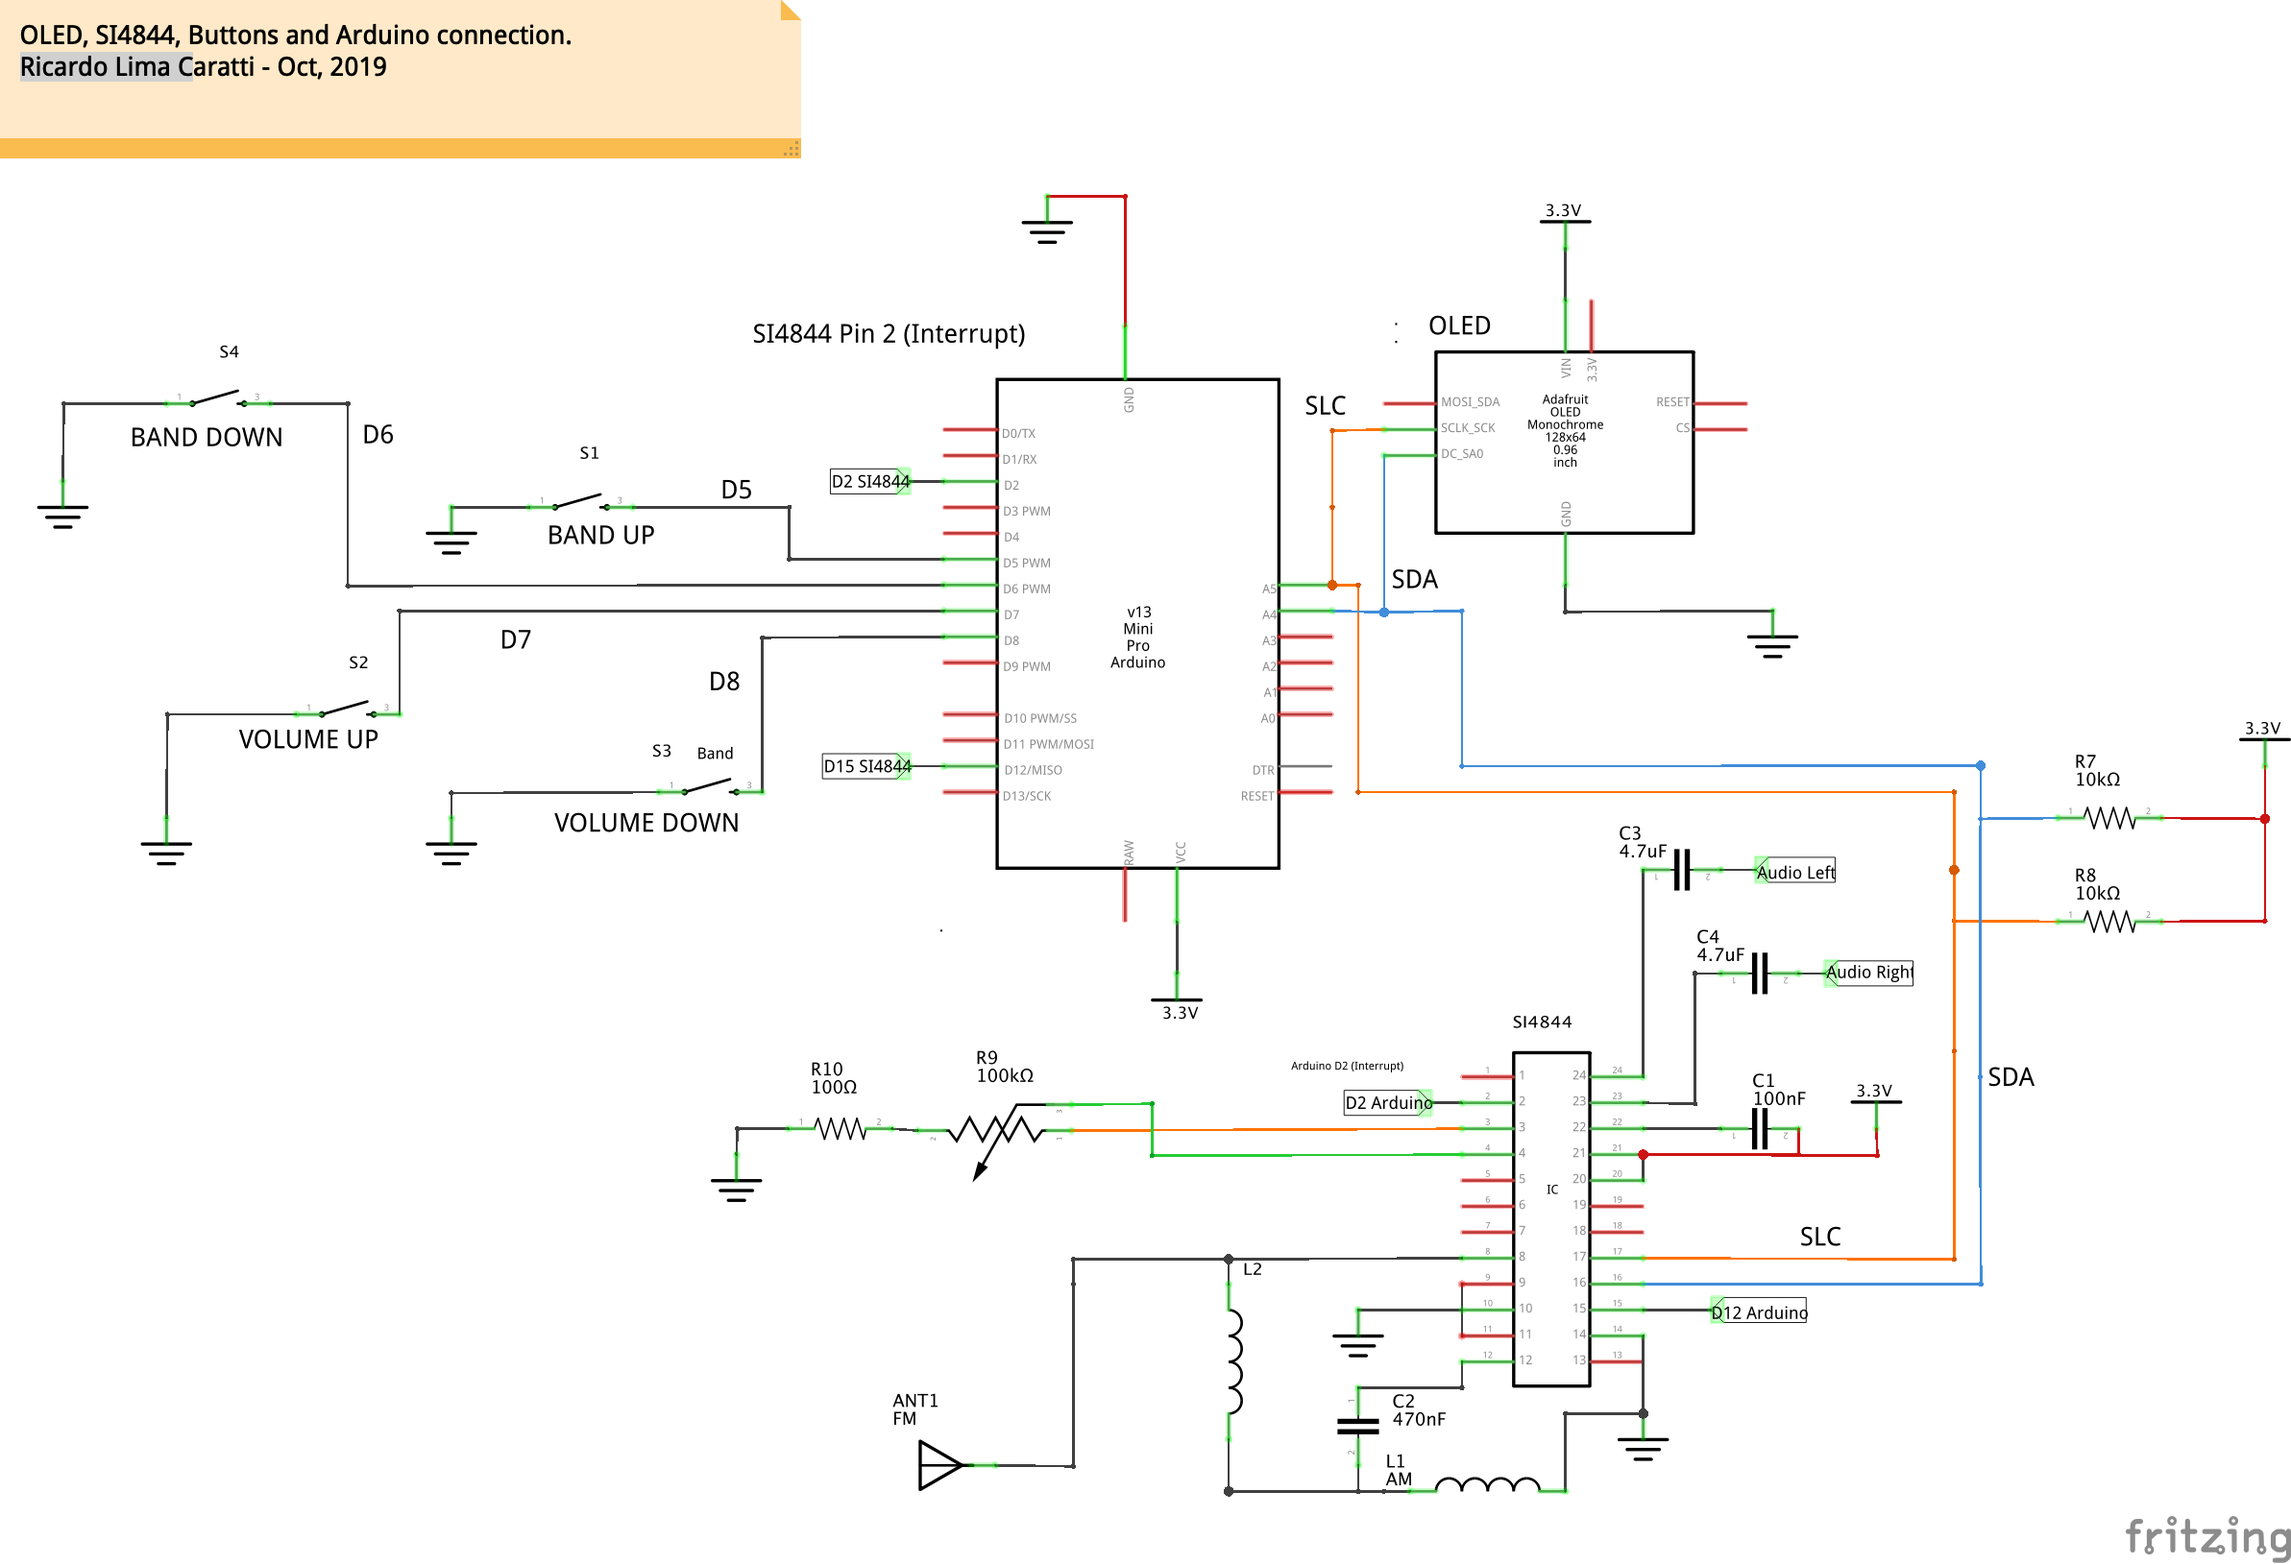
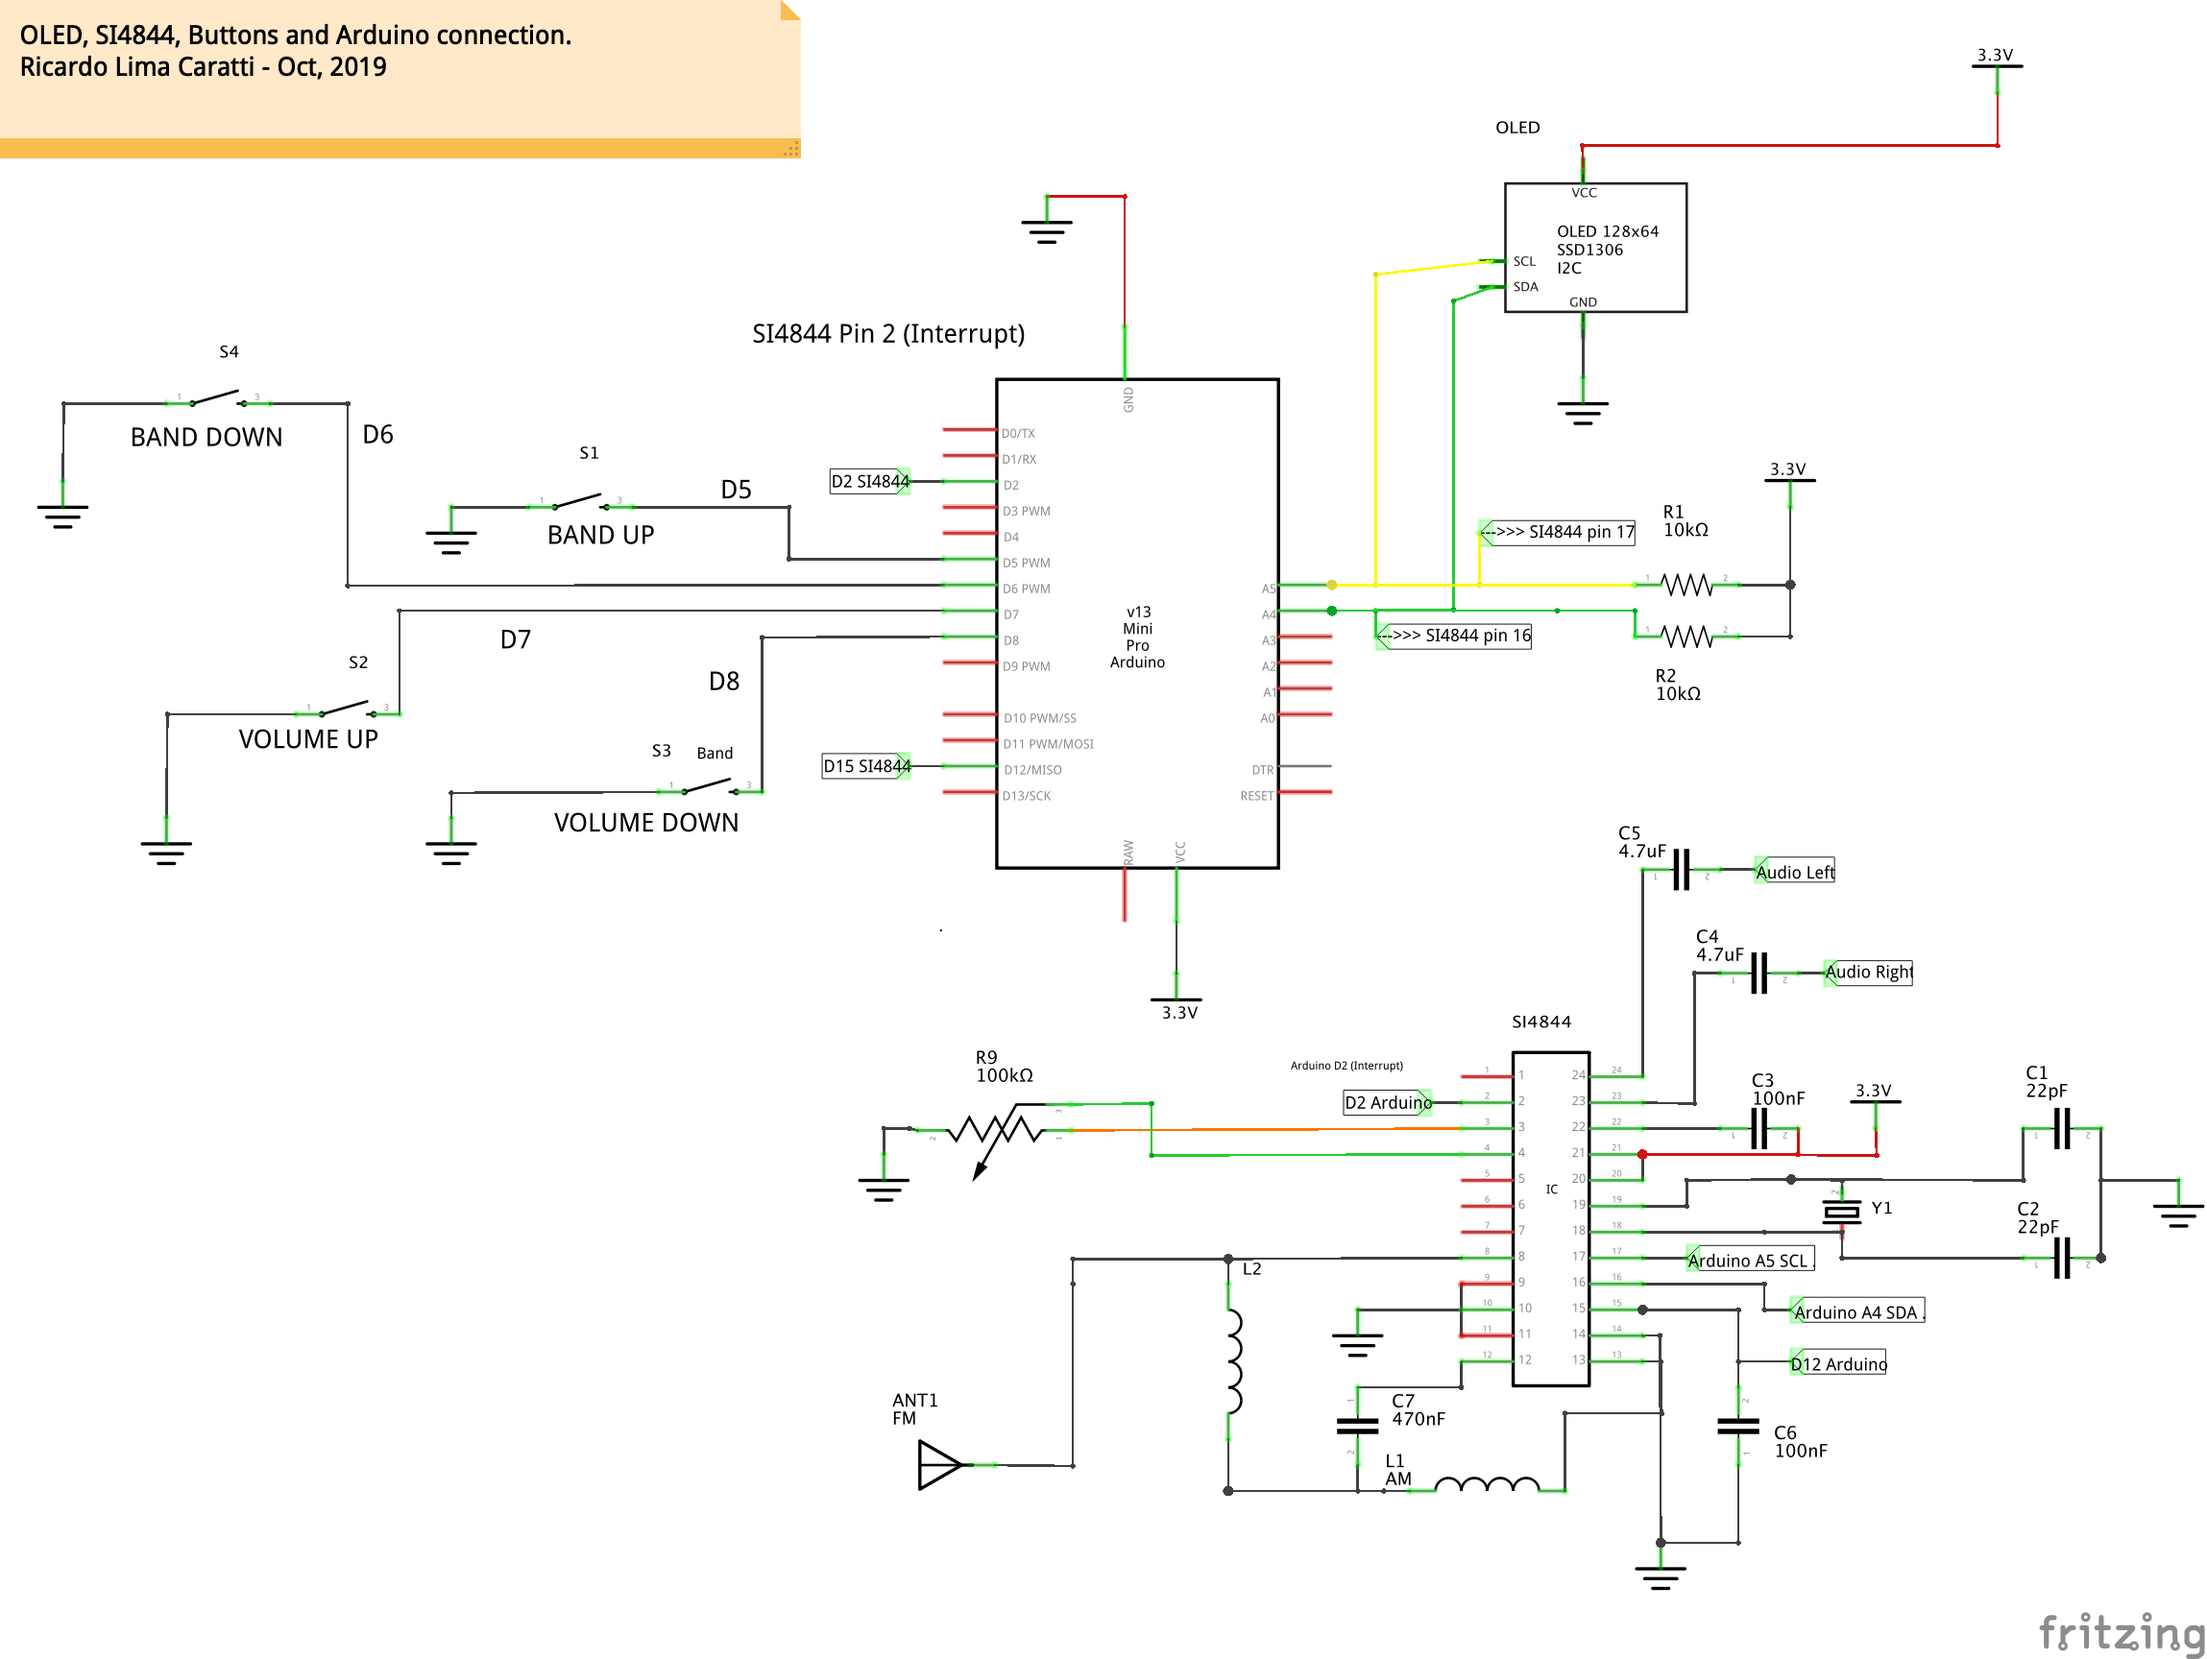
SI4844 Arduino Library

diff --git a/README.md b/README.md
@@ -165,9 +165,7 @@ To use this labrary you need to build a radio based on SI4844 connected to Ardui
 
 ![schematic](https://github.com/pu2clr/SI4844/blob/master/extras/images/OLED_WITH_4844_schematic_atmega328.png)
 
-
-As you can see above, that is a very simple circuit with minumum component parts. 
-
+As you can see above, that is a very simple circuit with minumum component parts. The push button are used with the internal Arduino pull-up resistors. No front-en was added to this receiver. However, you will be surprised with the its performance. You can connect a mono or stereo amplifier or an earphone to listen to the radio. 
 
 
 
@@ -185,47 +183,31 @@ __Attention__: If you are not using an Arduino Pro Mini, pay attention to the ap
 
 __Again, pay attention to the operating voltage of the Arduino that you will use. The SI4844 device  works with  +3.3V. See  [Making the Si4844 works with 5V Arduino UNO or similar](https://github.com/pu2clr/SI4844/tree/master/extras/5V_to_3V3_CONVERTER) if you itend to use a 5V Arduino board__.  
 
-The document [BROADCAST ANALOG TUNING DIGITAL DISPLAY AM/FM/SW RADIO RECEIVER](https://www.silabs.com/documents/public/data-sheets/Si4840-44-A10.pdf), chapter two, page 11,  has a typical application schematic. 
-
-The figure below shows that schematic. 
-__It is a good idea to put pull-up resistors on slave SDIO and SCLK pins (from 2,2 to 10K).__ The schematic below does not show that. 
-
-![schematic](./extras/images/SI4844_SILICON_LABS1.png)
-__Source: Silicon Labs (Si4840/44-A10)__
+The document [BROADCAST ANALOG TUNING DIGITAL DISPLAY AM/FM/SW RADIO RECEIVER](https://www.silabs.com/documents/public/data-sheets/Si4840-44-A10.pdf), chapter two, page 11,  has a typical application schematic.  This documentation can help you to improve the prototype shown here. 
 
 
 ### Parts
 
 Parts list  used by the first schematic
 
-The table below is based on [Raymond Genovese, May 26, 2016 - How to Build an Arduino-Controlled AM/FM/SW Radio](https://www.allaboutcircuits.com/projects/build-an-arduino-controlled-am-fm-sw-radio/) .  
-
 |Part	| Description |
 |-------  | ------------ |
-|(*1) L1 	| ferrite bead 2.5 kOhm (100 mHz) | 
-|C1,      |	100nF ceramic capacitor |
-| 
-|C3,C4 |	4.7uF Electrolytic or ceramic capacitor|
-|C6,C7,C9 |	.1uf non polarized capacitor |
-|(*2) C8	| __4.7uF non polarized capacitor__ (the orinal value is 47uF. I used 4.7uF) |
-|C10, (*1) C11 |	.47uF non polarized capacitor |
-|(*1) C12, (*1) C14 |	33nF non polarized capacitor |
-|C13	| 33pF non polarized capacitor |
-|(*1) C15	| 10pF non polarized capacitor |
-|IC1	| Si4844-A10 radio receiver |
-|(*1) Q1	| SS9018 NPN transistor |
-|R1, R2	(*3)| 10K |
-|(*1) R3	| 1K |
-|R4 (*1), (*1) R7	| 100K |
-|(*1) R5	| 10 Ohms |
-|(*1) R6	| 120K |
-|R8	| 100 Ohms |
-|L1	| 270 nH Inductor (0,270 uH) |
-|VR1 |	100K linear potentiometer |
-|Y1	| 32.768 kHz crystal |
-|ANT1 |	ferrite antenna |
-|ANT2 | telescopic/whip antenna |
-|__Notes__| *1. not used for this project;<BR> *2. the value used is 4.7uF and not 47uF as suggested by the original circuit.<br> *3. between 2,2K and 10K will work.| 
+| IC1	    | Si4844-A10 radio receiver |
+| Arduino | Arduino Pro Mini, 3.3V, 8MHz |
+| C1      |	22pF ceramic capacitor |
+| C2      | 22pF ceramic capacitor |
+| C3      | 100nF ceramic capacitor |
+| C4      | 4.7uF Electrolytic or ceramic capacitor |
+| C5      | 4.7uF Electrolytic or ceramic capacitor | 
+| C6      | 100nF  ceramic capacitor |
+| C7      | 470nF  ceramic capacitor | 
+| R1      | 3.3K ~ 10K resistor |
+| R2      | 3.3K ~ 10K resistor |
+| R3      |	100K linear potentiometer |
+| L1    	| ferrite AM antenna | 
+| L2      | 100mH |
+|Y1	      | 32.768 kHz crystal |
+| S1...S4 | 4 push buttons |  
 
 
 
